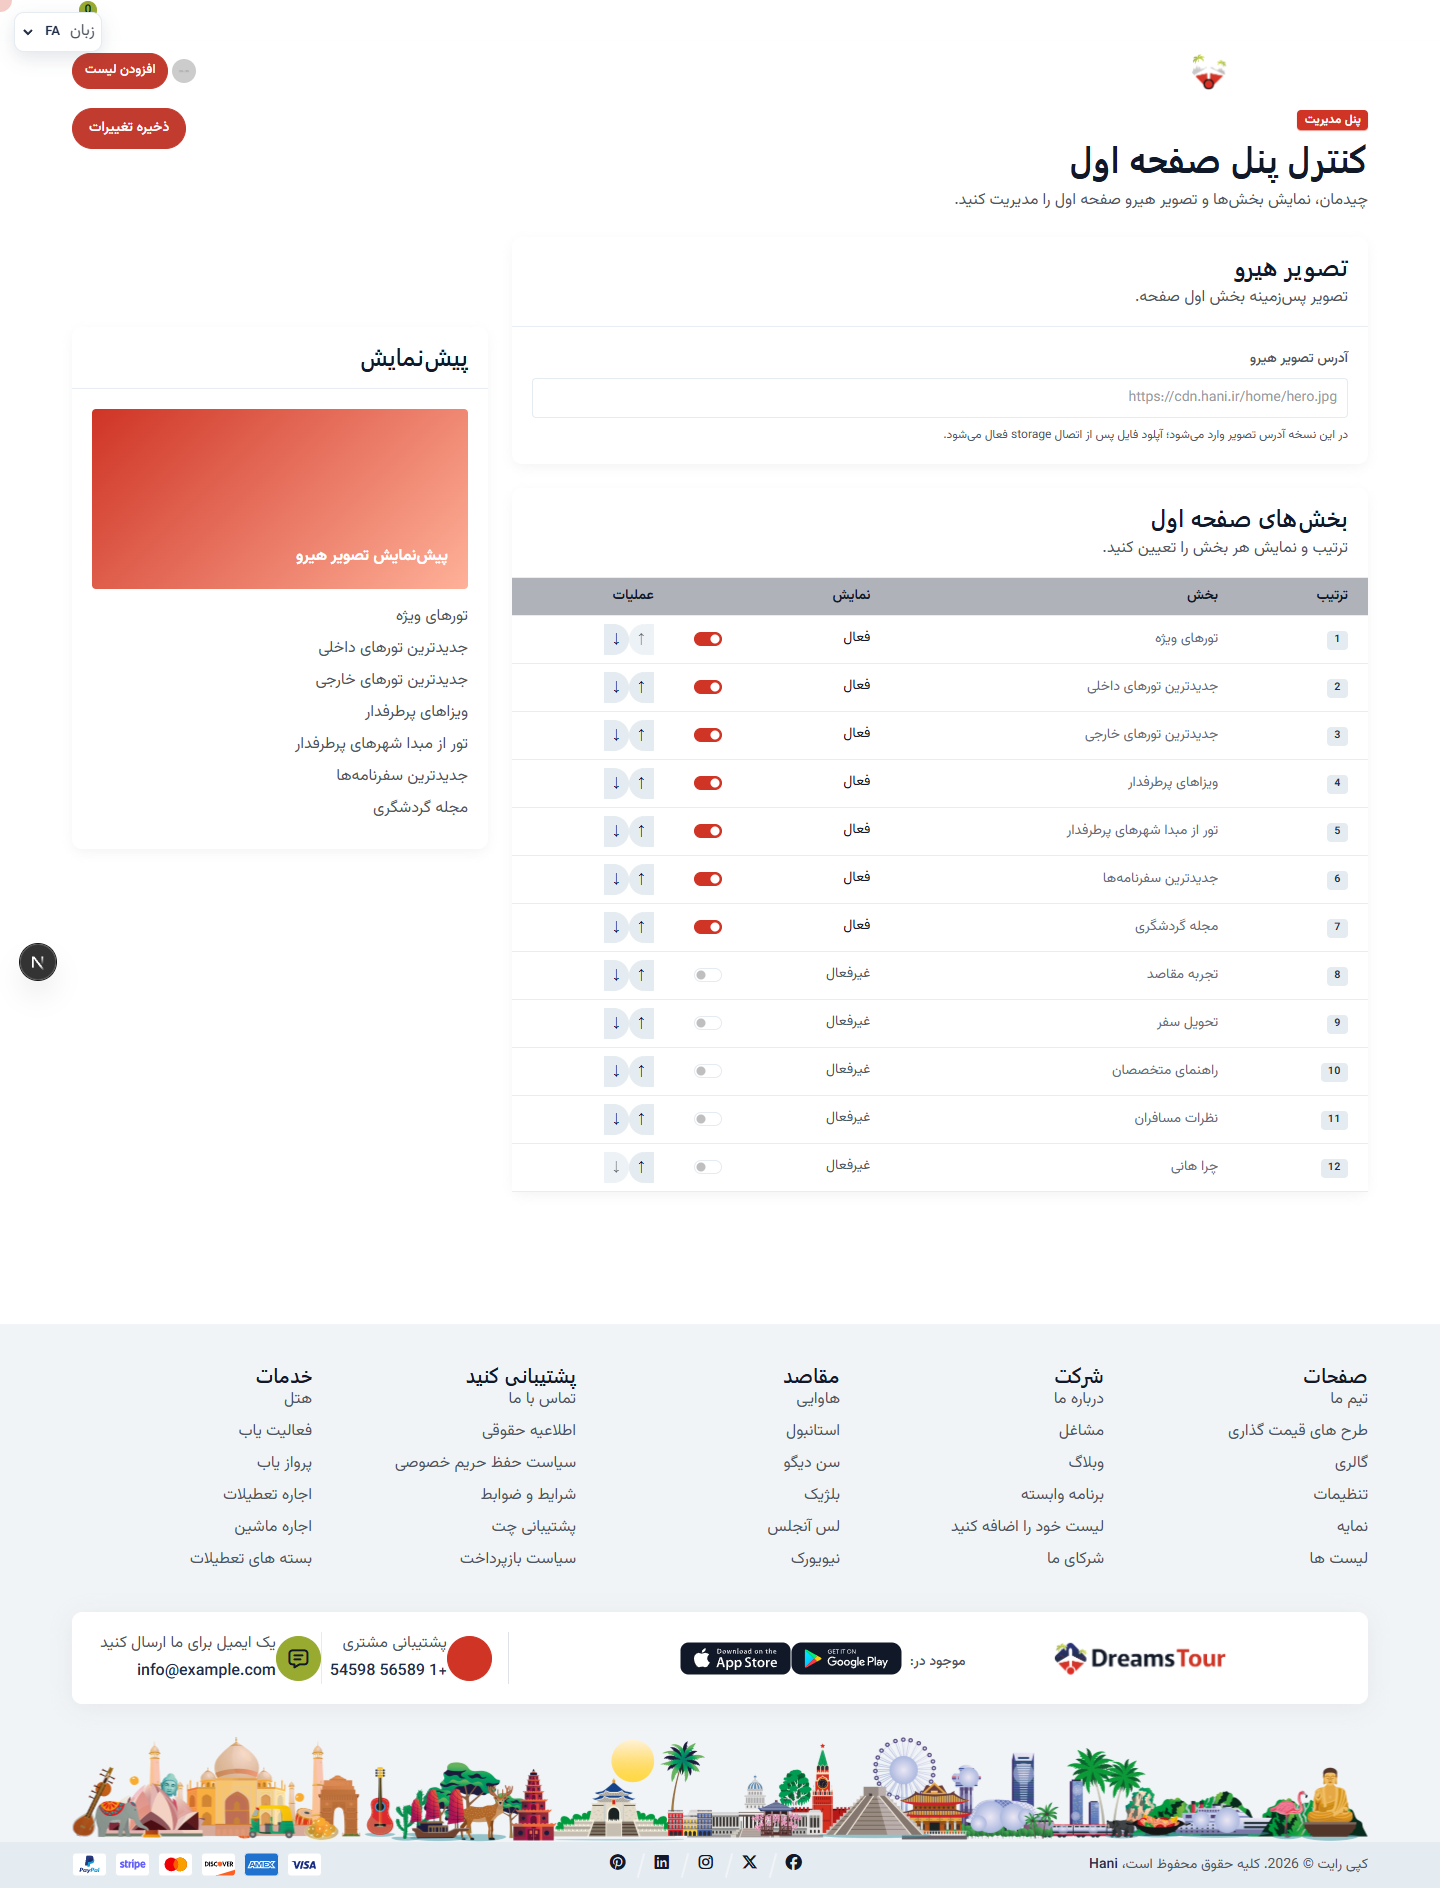
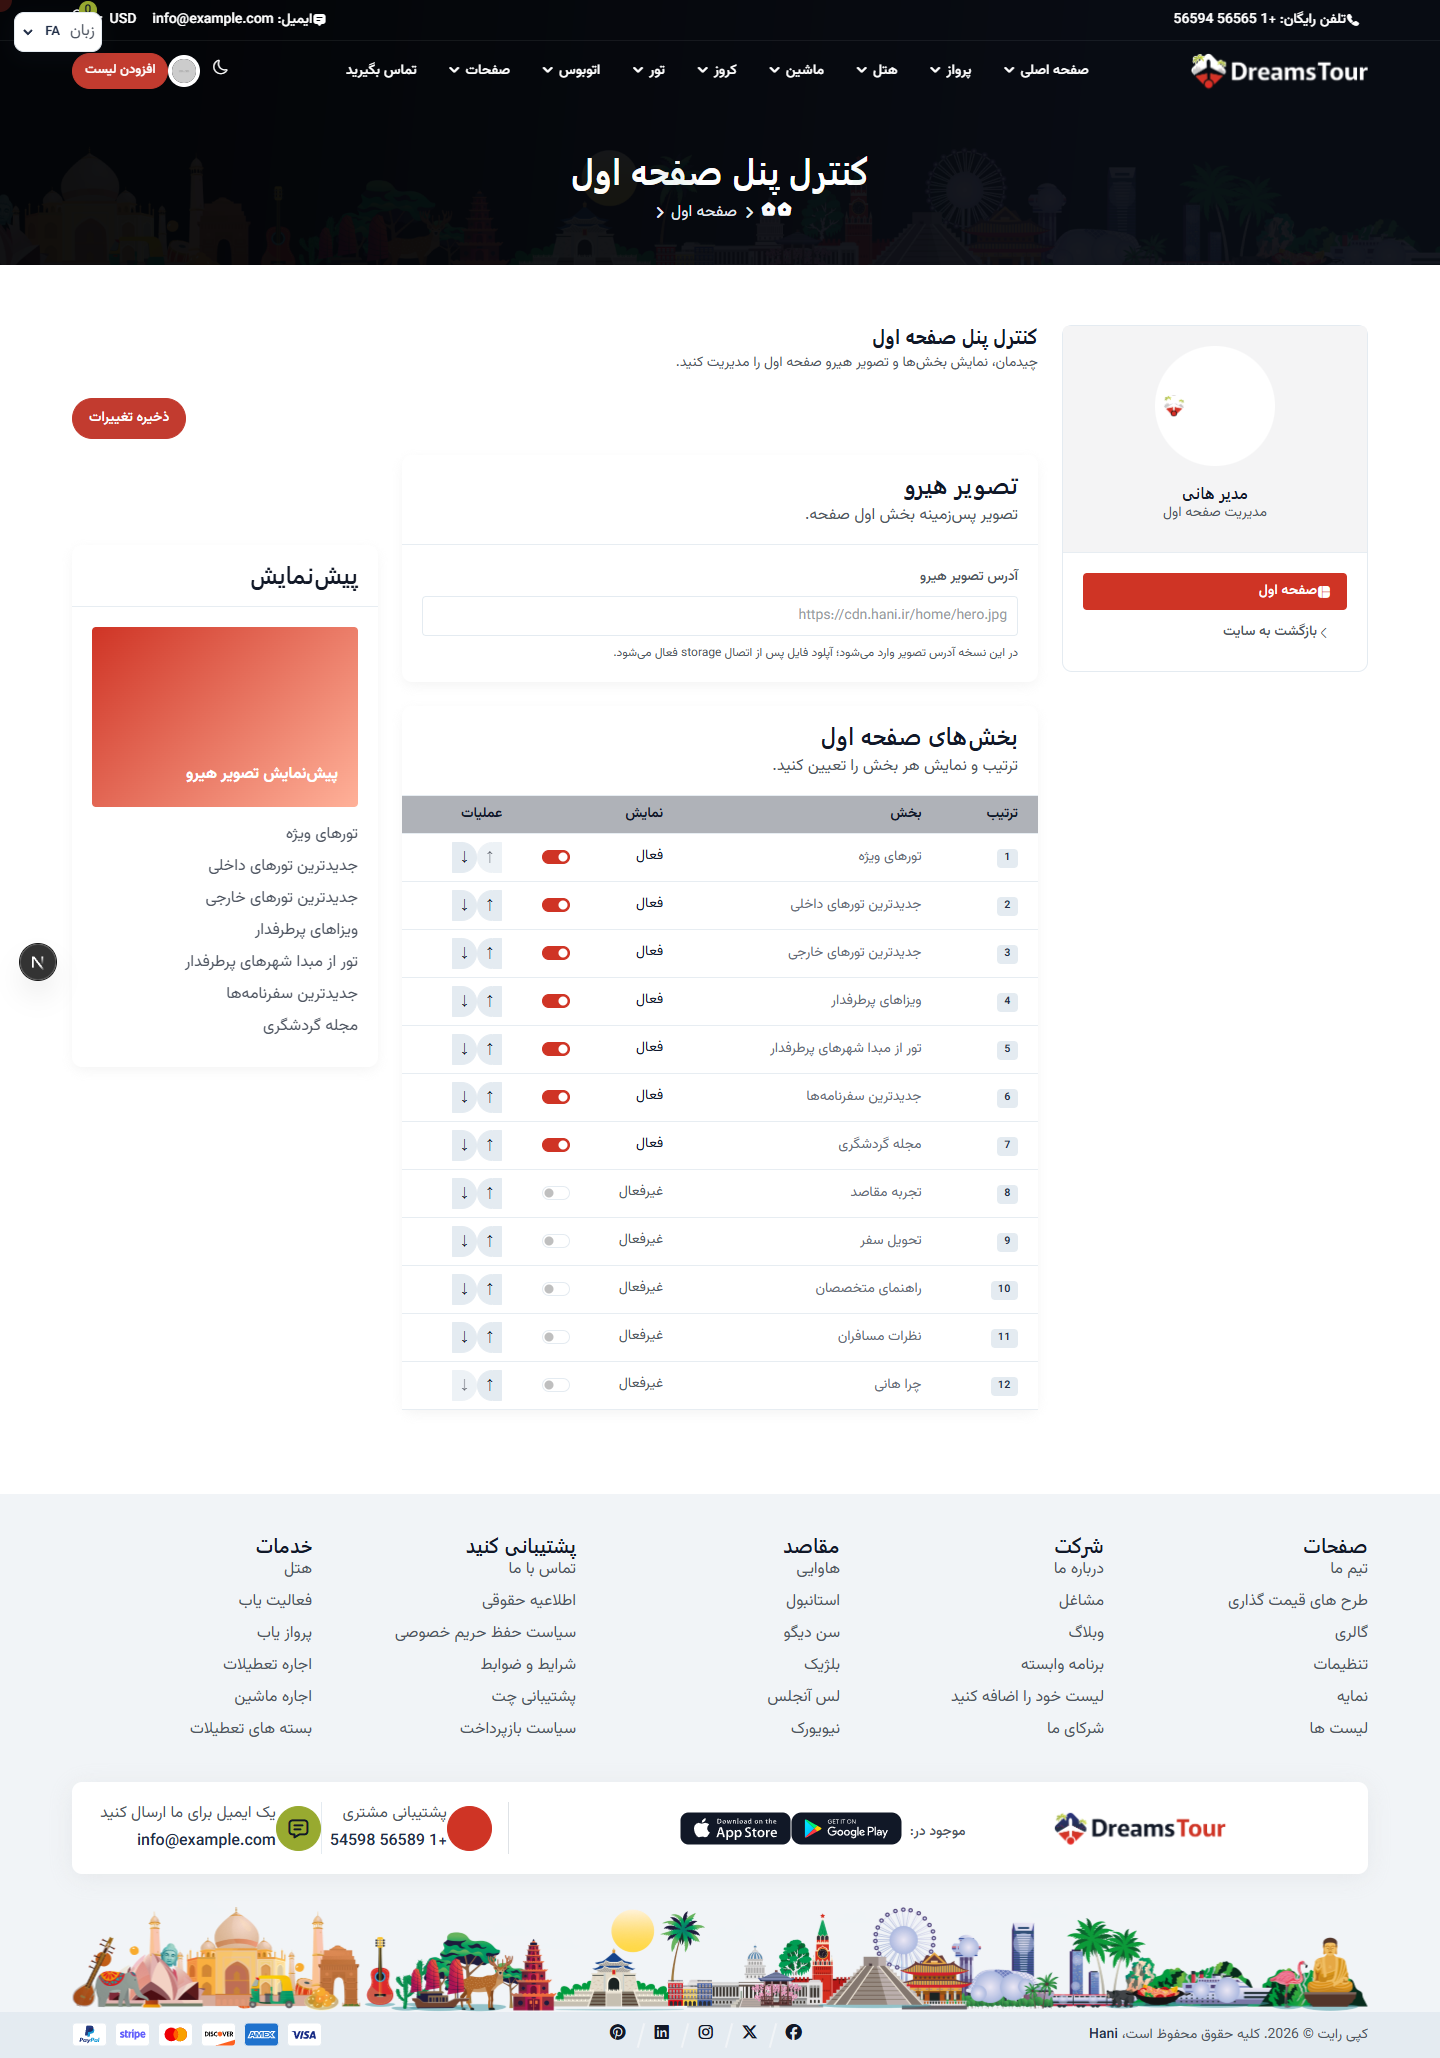
refactor: wrap admin homepage in template agency shell

diff --git a/frontend/src/features/home-experience/ui/AdminPageShell.tsx b/frontend/src/features/home-experience/ui/AdminPageShell.tsx
@@ -1,0 +1,91 @@
+import { getTranslations } from "next-intl/server";
+import Breadcrumb from "@/components/breadcrumb/breadcrumb";
+import ImageWithBasePath from "@/components/image-with-base-path";
+import { Link } from "@/i18n/navigation";
+
+/**
+ * Admin shell built from the template's agency-dashboard visual language.
+ * The template ships no separate admin layout, so this reuses the agency
+ * sidebar card, breadcrumb, spacing, and content grid rather than inventing a
+ * second design system.
+ */
+export async function AdminPageShell({
+  locale,
+  title,
+  subtitle,
+  active,
+  children
+}: {
+  locale: string;
+  title: string;
+  subtitle: string;
+  active: string;
+  children: React.ReactNode;
+}) {
+  const t = await getTranslations({ locale, namespace: "adminHome" });
+
+  return (
+    <>
+      <Breadcrumb
+        title={title}
+        breadcrumbs={[
+          { label: t("breadcrumbHome"), link: "/", active: false },
+          { label: t("breadcrumbAdmin"), link: "/admin/home", active: false },
+          { label: active, active: true }
+        ]}
+        backgroundClass="breadcrumb-bg-04"
+      />
+      <div className="content">
+        <div className="container">
+          <div className="row">
+            <div className="col-xl-3 col-lg-4">
+              <div className="card user-sidebar agent-sidebar mb-4 mb-lg-0 theiaStickySidebar">
+                <div className="card-header user-sidebar-header text-center bg-gray-transparent">
+                  <div className="agent-profile d-inline-flex">
+                    <ImageWithBasePath
+                      src="assets/img/logo.svg"
+                      alt="Hani"
+                      className="img-fluid rounded-circle bg-white p-2"
+                    />
+                  </div>
+                  <h6 className="fs-16 mt-2">{t("adminName")}</h6>
+                  <p className="fs-14 mb-2">{t("adminRole")}</p>
+                </div>
+                <div className="card-body user-sidebar-body">
+                  <ul>
+                    <li>
+                      <Link
+                        href="/admin/home"
+                        className={`d-flex align-items-center ${
+                          active === t("navHomepage") ? "active" : ""
+                        }`}
+                      >
+                        <i className="isax isax-grid-55 me-2" />
+                        {t("navHomepage")}
+                      </Link>
+                    </li>
+                    <li>
+                      <Link href="/" className="d-flex align-items-center">
+                        <i className="isax isax-arrow-left-2 me-2" />
+                        {t("backToSite")}
+                      </Link>
+                    </li>
+                  </ul>
+                </div>
+              </div>
+            </div>
+            <div className="col-xl-9 col-lg-8">
+              <div className="d-flex align-items-center justify-content-between flex-wrap gap-2 mb-4">
+                <div>
+                  <h4 className="fs-20 fw-bold mb-1">{title}</h4>
+                  <p className="fs-14 text-gray-6 mb-0">{subtitle}</p>
+                </div>
+              </div>
+              {children}
+            </div>
+          </div>
+        </div>
+      </div>
+    </>
+  );
+}

diff --git a/frontend/src/app/[locale]/(public-pages)/admin/home/page.tsx b/frontend/src/app/[locale]/(public-pages)/admin/home/page.tsx
@@ -6,6 +6,7 @@ import {
   type HomePageSettingsResponse
 } from "@/features/home-experience/domain/home-page-settings";
 import { HomeSettingsEditor } from "@/features/home-experience/ui/HomeSettingsEditor";
+import { AdminPageShell } from "@/features/home-experience/ui/AdminPageShell";
 
 export async function generateMetadata({
   params
@@ -34,20 +35,31 @@ export default async function AdminHomePage({
 
   if (result.status === 401 || result.status === 403) {
     return (
-      <div className="content">
-        <div className="container py-5">
-          <div className="card border-0 shadow-sm">
-            <div className="card-body p-4">
-              <h1 className="h3">{t("accessTitle")}</h1>
-              <p className="text-gray-6 mb-0">{t("accessHint")}</p>
-            </div>
+      <AdminPageShell
+        locale={locale}
+        title={t("accessTitle")}
+        subtitle={t("accessHint")}
+        active={t("navHomepage")}
+      >
+        <div className="card border-0 shadow-sm">
+          <div className="card-body p-4">
+            <p className="text-gray-6 mb-0">{t("accessHint")}</p>
           </div>
         </div>
-      </div>
+      </AdminPageShell>
     );
   }
 
   const settings = normalizeHomePageSettings(result.data?.settings ?? null);
 
-  return <HomeSettingsEditor locale={locale} initialSettings={settings} />;
+  return (
+    <AdminPageShell
+      locale={locale}
+      title={t("title")}
+      subtitle={t("subtitle")}
+      active={t("navHomepage")}
+    >
+      <HomeSettingsEditor locale={locale} initialSettings={settings} />
+    </AdminPageShell>
+  );
 }

diff --git a/frontend/src/features/home-experience/ui/HomeSettingsEditor.tsx b/frontend/src/features/home-experience/ui/HomeSettingsEditor.tsx
@@ -83,23 +83,17 @@ export function HomeSettingsEditor({
   };
 
   return (
-    <div className="content">
-      <div className="container py-5">
-        <div className="d-flex align-items-start justify-content-between flex-wrap gap-3 mb-4">
-          <div>
-            <span className="badge badge-primary mb-2">{t("badge")}</span>
-            <h1 className="mb-2">{t("title")}</h1>
-            <p className="text-gray-6 mb-0">{t("subtitle")}</p>
-          </div>
-          <button
-            type="button"
-            className="btn btn-primary"
-            disabled={pending}
-            onClick={save}
-          >
-            {pending ? t("saving") : t("save")}
-          </button>
-        </div>
+    <div>
+      <div className="d-flex justify-content-end mb-3">
+        <button
+          type="button"
+          className="btn btn-primary"
+          disabled={pending}
+          onClick={save}
+        >
+          {pending ? t("saving") : t("save")}
+        </button>
+      </div>
 
         {status === "saved" && (
           <div className="alert alert-success" role="status">
@@ -256,7 +250,6 @@ export function HomeSettingsEditor({
             </div>
           </div>
         </div>
-      </div>
     </div>
   );
 }

diff --git a/frontend/tests/e2e/public-smoke.spec.ts b/frontend/tests/e2e/public-smoke.spec.ts
@@ -305,6 +305,15 @@ test.describe("public smoke", () => {
     await expect(menu).toBeVisible();
   });
 
+  test("admin homepage uses the template shell and is access-guarded", async ({
+    page
+  }) => {
+    await page.goto("/fa/admin/home");
+    await expect(page.locator(".agent-sidebar")).toHaveCount(1);
+    await expect(page.locator(".breadcrumb-bar")).toHaveCount(1);
+    await expect(page.locator("main#main-content")).toHaveCount(1);
+  });
+
   test("date modal stays inside the mobile viewport", async ({ page }) => {
     await page.setViewportSize({ width: 390, height: 844 });
     await page.goto("/fa");

diff --git a/src/Modules/Identity/Hani.Modules.Identity.Application/Commands/Auth/AuthCommandHandlers.cs b/src/Modules/Identity/Hani.Modules.Identity.Application/Commands/Auth/AuthCommandHandlers.cs
@@ -70,10 +70,7 @@ internal sealed class RequestOtpCommandHandler(
         }
 
         var isNewUser = user is null;
-        if (isNewUser)
-        {
-            user = User.Create(ids, mobile, now: now);
-        }
+        user ??= User.Create(ids, mobile, now: now);
 
         var code = generator.Generate();
         var otp = user.AddOtp(

diff --git a/docs/plan/STATUS.md b/docs/plan/STATUS.md
@@ -580,3 +580,4 @@
 - Home search polish: hero form raised, dropdown portal positioning verified, demo catalog labels repaired, test hotels filtered.
 - Search UX: opening dropdowns no longer changes scrollY; menu stays below and follows manual scroll.
 - Homepage control panel: `content.home_page_settings` (JSONB), public/admin settings API, `/[locale]/admin/home` editor, Lastsecond-parity order with optional template sections off by default. Agency advertising/contract model proposed in ADR-0033.
+- Admin homepage panel now uses the template agency-dashboard shell instead of a custom page layout.

diff --git a/docs/plan/HOME-ADMIN-ADVERTISING-PLAN.md b/docs/plan/HOME-ADMIN-ADVERTISING-PLAN.md
@@ -14,7 +14,8 @@ Decision record: [`../adr/0033-homepage-composition-agency-advertising.md`](../a
 - Public read: `GET /market/v1/home-settings?locale=fa`.
 - Admin read/write: `GET/PUT /internal/v1/home-settings` with the `Admin`
   policy.
-- Admin page: `/[locale]/admin/home`.
+- Admin page: `/[locale]/admin/home`, wrapped in a template-derived
+  agency-dashboard shell (sidebar, breadcrumb, cards, forms, tables).
 - Admin can set:
   - hero image URL;
   - section visibility;

diff --git a/docs/adr/0033-homepage-composition-agency-advertising.md b/docs/adr/0033-homepage-composition-agency-advertising.md
@@ -21,6 +21,9 @@ from the organic layer.
 ## Decision
 
 1. **Home composition is data, not code.**
+   The control panel uses the template's agency-dashboard shell (sidebar,
+   breadcrumb, cards, forms, tables); it does not introduce a second admin
+   design system.
    Store `home_page_settings` per `key` and `locale` as JSONB. The public home
    reads it; only `Admin` can write it. Missing settings fall back to a
    versioned Lastsecond-parity default in the frontend.

diff --git a/docs/plan/DONE.md b/docs/plan/DONE.md
@@ -287,3 +287,4 @@
 | `c56fa80` | Home search polish: raised hero form, repaired demo labels, filtered test hotels, unique options test |
 | `5c79553` | Search UX: no scroll jump on dropdown open, menu below and scroll-stable |
 | `fb50871` | Homepage control panel: DB composition settings, admin editor, Lastsecond default order; agency advertising proposal |
+| `pending` | Admin homepage panel moved into template-derived agency shell |
